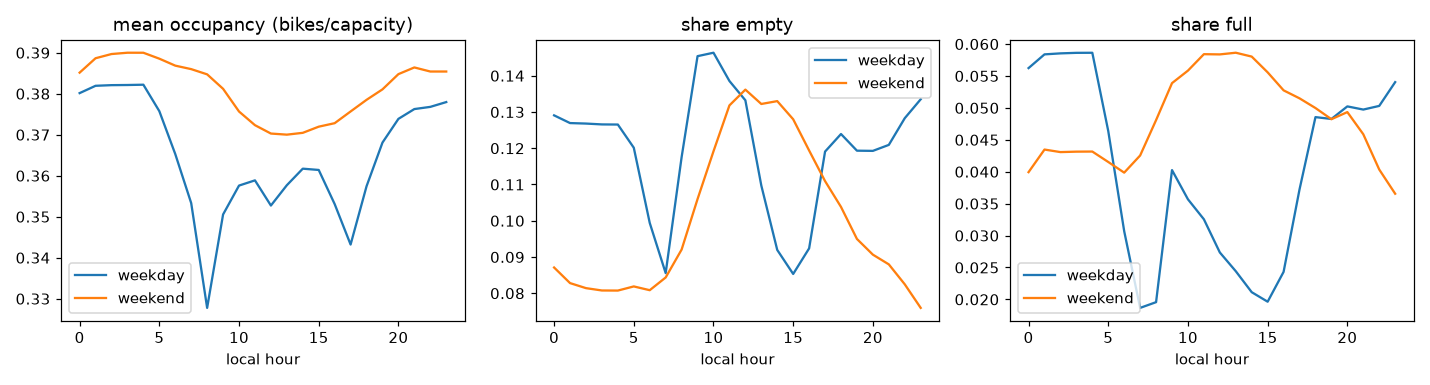
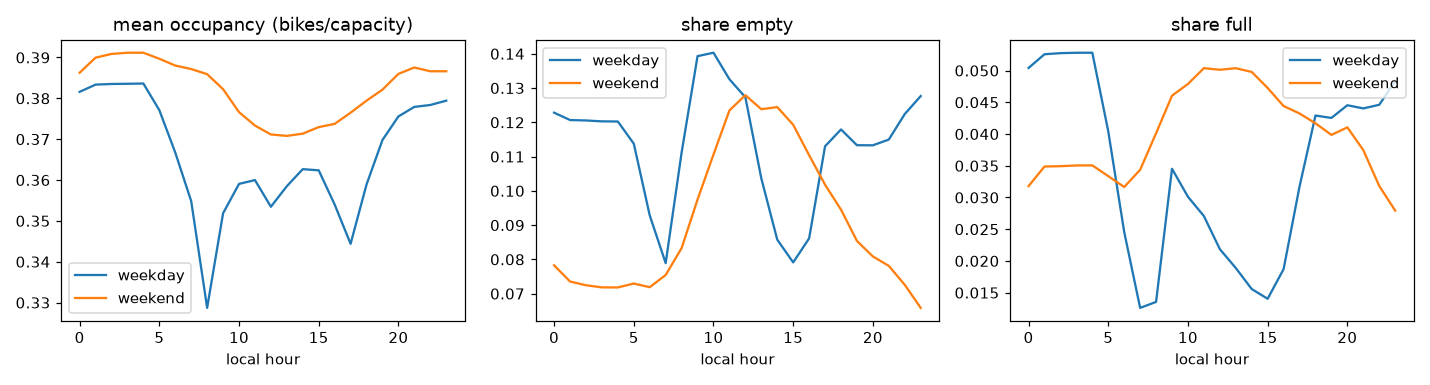
docs: regenerate EDA report (git df220b8)

diff --git a/reports/eda.md b/reports/eda.md
@@ -1,6 +1,6 @@
 # Exploratory data analysis
 
-Generated by `dockcast.quality.eda` at 2026-10-25 22:07 UTC, git `6fed162`. Main window: **Format B** 2024-05-02T19:00 → 2026-06-30T23:55 UTC (training scope, PRD 9.1a). Descriptive statistics only; no model metrics, so no MLflow run (MLflow starts in M3).
+Generated by `dockcast.quality.eda` at 2026-10-25 22:35 UTC, git `df220b8`. Main window: **Format B** 2024-05-02T19:00 → 2026-06-30T23:55 UTC (training scope, PRD 9.1a). Descriptive statistics only; no model metrics, so no MLflow run (MLflow starts in M3).
 Data © Dublin City Council / Smart Dublin (CC BY 4.0); weather © Met Éireann (CC BY 4.0).
 
 ## 1. Coverage
@@ -11,15 +11,19 @@ Data © Dublin City Council / Smart Dublin (CC BY 4.0); weather © Met Éireann 
 | hist_b | 15149940 | 115 | 2024-05-02 19:00:00+00:00 | 2026-06-30 23:55:00+00:00 |
 | live | 125350 | 115 | 2026-10-15 15:08:05+00:00 | 2026-10-22 22:27:59+00:00 |
 
+Rows in the local research database. Live rows after the local collector stopped (2026-10-22) are in the hosted database and reach this one via the R2 archive.
+
 Data gaps (`reports/data_gaps.md`): 38 gaps, 216.4 days in total.
 
-## 2. Occupancy, empty and full by hour
+## 2. Occupancy, empty and full by hour (capacity at the time; closed and flat-lined buckets excluded)
 
 ![](figures/eda_hourly_profile.png)
 
-Highest empty share 0.146 at 10:00 (weekday); highest full share 0.059 at 13:00 (weekend).
+Highest empty share 0.140 at 10:00 (weekday); highest full share 0.053 at 04:00 (weekday).
 
 ## 3. Activity by hour and weekday
+
+Mean |Δbikes| between consecutive observed 15-min buckets; buckets flagged as rebalancing, flat-lined or closed are excluded, so this approximates rider demand. It is net change per station, not trips (PRD NG1).
 
 ![](figures/eda_turnover_heatmap.png)
 
@@ -29,18 +33,18 @@ Hourly network-mean |Δbikes| joined to the observation for that hour (rain = mm
 
 | rain_mm | mean_turnover | hours |
 |---|---|---|
-| 0 | 1.047 | 6484 |
-| 0-0.5 | 0.931 | 610 |
-| 0.5-2 | 0.798 | 275 |
-| >2 | 0.762 | 77 |
+| 0 | 0.937 | 6484 |
+| 0-0.5 | 0.826 | 610 |
+| 0.5-2 | 0.723 | 275 |
+| >2 | 0.663 | 77 |
 
 | temp_c_bin | mean_turnover | hours |
 |---|---|---|
-| <5 | 0.973 | 740 |
-| 5-10 | 0.959 | 1712 |
-| 10-15 | 1.057 | 2803 |
-| 15-20 | 1.052 | 1830 |
-| >20 | 1.071 | 361 |
+| <5 | 0.867 | 740 |
+| 5-10 | 0.847 | 1712 |
+| 10-15 | 0.940 | 2803 |
+| 15-20 | 0.953 | 1830 |
+| >20 | 0.988 | 361 |
 
 Weather QC: 18143 of 21169 hours since 2024-05-02 (85.7%) carry indicator 111 ("investigation required": not yet quality-controlled by Met Éireann).
 
